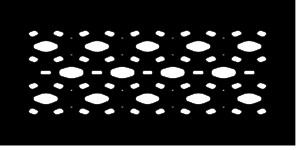
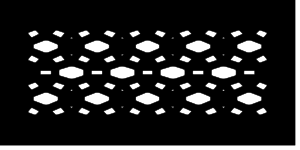
fix image treace

diff --git a/src/bracelet-maker/designs/inner/image-trace.ts b/src/bracelet-maker/designs/inner/image-trace.ts
@@ -6,6 +6,8 @@ import JimpImport from "jimp/es";
 
 const Jimp = configure({ plugins: [threshold] }, JimpImport);
 
+import { CompoundPath } from "paper/dist/paper-core";
+
 import {
   OnOffMetaParameter,
   RangeMetaParameter,
@@ -71,8 +73,6 @@ export class InnerDesignImageTrace extends FastAbstractInnerDesign {
       return { paths: [] };
     }
 
-    console.log({ turnPolicy });
-
     const image = await Jimp.read(buffer);
 
     // Convert the image to black and white
@@ -84,7 +84,6 @@ export class InnerDesignImageTrace extends FastAbstractInnerDesign {
 
     // Get the buffer of the modified image
     const newBuffer = await image.getBufferAsync("image/png");
-    console.log({ newBuffer });
 
     if (typeof window !== "undefined") {
       const imgEl = document.createElement("img");
@@ -101,8 +100,6 @@ export class InnerDesignImageTrace extends FastAbstractInnerDesign {
         turdSize,
       },
     });
-
-    console.log({ tracedSvgString });
 
     const item = paper.project.importSVG(tracedSvgString, {
       expandShapes: true,
@@ -162,12 +159,19 @@ export class InnerDesignImageTrace extends FastAbstractInnerDesign {
     paths.forEach((path) => {
       path.closePath();
 
-      if (smooth) {
-        path.smooth({ type: "continuous" });
+      console.log(path.hasChildren());
+      if (path instanceof CompoundPath) {
+        console.log("this one is a path!");
       }
 
       if (simplificationTolerance > 0) {
-        path.simplify(simplificationTolerance / 50000);
+        path.flatten(simplificationTolerance / 500);
+      }
+
+      // path.simplify(0.00005);
+
+      if (smooth) {
+        path.smooth({ type: "continuous" });
       }
     });
 
@@ -189,7 +193,7 @@ export class InnerDesignImageTrace extends FastAbstractInnerDesign {
       }),
       new SelectMetaParameter({
         title: "Object Fit",
-        value: "fit",
+        value: "cover",
         options: ["contain", "cover", "fill"],
         name: "objectFit",
       }),
@@ -250,7 +254,7 @@ export class InnerDesignImageTrace extends FastAbstractInnerDesign {
         title: "Simplification Tolerance",
         min: 0,
         max: 1000,
-        value: 0.0,
+        value: 10,
         step: 1,
         name: "simplificationTolerance",
       }),

diff --git a/src/bracelet-maker/designs/inner/fast-abstract-inner-design.ts b/src/bracelet-maker/designs/inner/fast-abstract-inner-design.ts
@@ -435,10 +435,9 @@ export abstract class FastAbstractInnerDesign implements PaperModelMaker {
 
     const shouldMakeOutline =
       safeBoundaryModel.bounds.height > params.outerModel.bounds.height;
-    console.log({ shouldMakeOutline });
 
     if ((this.needSubtraction || kaleidoscopeMaker) && !shouldMakeOutline) {
-      console.log("clamping to boundary");
+      console.log("clamping to boundary and cone");
 
       paths = this.clampPathsToBoundary(paths, params.safeCone);
       paths = this.clampPathsToBoundary(paths, safeBoundaryModel);
@@ -456,7 +455,6 @@ export abstract class FastAbstractInnerDesign implements PaperModelMaker {
     );
     paths = maybeOutline.paths;
     const outline = maybeOutline.outline;
-    console.log({ outline });
     if (outline) {
       addToDebugLayer(paper, "finalOutline", outline);
     }

diff --git a/src/components/App/App.tsx b/src/components/App/App.tsx
@@ -91,7 +91,6 @@ const Renderer = ({ modelMaker }: { modelMaker: OuterPaperModelMaker }) => {
         .split("&")
         .filter((param) => param.length > 0)
         .forEach((param) => {
-          console.log("param", param);
           const [key, value] = param.split("=");
           const [model, name] = decodeURIComponent(key).split(".");
           params[model][name] = getParsedValue(
@@ -99,14 +98,7 @@ const Renderer = ({ modelMaker }: { modelMaker: OuterPaperModelMaker }) => {
             name,
             decodeURIComponent(value)
           );
-          console.log(
-            `setting ${model}.${name} to ${decodeURIComponent(value)} from hash`
-          );
         });
-
-      console.log("initialParams", { params });
-
-      console.log("setting model params", params);
 
       setModelParams(params);
     }

diff --git a/src/bracelet-maker/utils/paperjs-utils.ts b/src/bracelet-maker/utils/paperjs-utils.ts
@@ -281,7 +281,9 @@ export function flattenArrayOfPathItems(
   const ret: paper.Path[] = [];
   paths.forEach((path) => {
     if (path instanceof paper.CompoundPath) {
-      flattenArrayOfPathItems(paper, path.children).forEach((c) => ret.push(c));
+      flattenArrayOfPathItems(paper, path.children).forEach((c) => {
+        ret.push(c);
+      });
     } else if (path instanceof paper.Path) {
       ret.push(path);
     }

diff --git a/src/meta-parameter-builder.ts b/src/meta-parameter-builder.ts
@@ -360,6 +360,8 @@ class RenderedSelectMetaParameter extends RenderedMetaParameter {
   public render() {
     const selectedValue = this.initialValue ?? this.metaParameter.value;
 
+    console.log({ selectedValue });
+
     const { parentDiv, containingDiv } = makeMetaParameterContainer(
       this.metaParameter.title
     );

diff --git a/TODO.md b/TODO.md
@@ -1,17 +1,16 @@
-TRACE
-- why is contain broken at first
-- why are some paths unable to heal?
-- remove unneeded inner holes
-- add a repeat option
-- document some of these
-
-- bring back break the plane
-
 - fix map design
 --> figure out what it needs for yuva's map
 --> get it to default to unrounded? or much less rounded?
 --> why kaleido unhappy middle in map someimte
---> why is this not going to edge http://localhost:8080/BoxOuter/InnerDesignMap#BoxOuter.height%3D3&BoxOuter.topWidth%3D3&BoxOuter.bottomWidth%3D3&BoxOuter.smoothingFactor%3D0&InnerDesignMap.debug%3Dfalse&InnerDesignMap.safeBorderWidth%3D0&InnerDesignMap.center%3D35.0688889%2C-106.58329&InnerDesignMap.scaleX%3D240&InnerDesignMap.xyRatio%3D1&InnerDesignMap.lineWidth%3D0.1&InnerDesignMap.invertLatLng%3Dfalse&InnerDesignMap.centerAt%3Dcenter&InnerDesignMap.kaleido%3Dtrue&InnerDesignMap.segmentBuffer%3D0&InnerDesignMap.segments%3D10&InnerDesignMap.shouldSmooth%3Dtrue&InnerDesignMap.smoothingFactor%3D0.8&InnerDesignMap.breakThePlane%3Dfalse&InnerDesignMap.extendOutward%3D0.25&InnerDesignMap.concavity%3D0.4&InnerDesignMap.lengthThreshold%3D0.25&InnerDesignMap.outlineSize%3D0.15&InnerDesignMap.safeCone%3DPath%20%40152530&InnerDesignMap.outerModel%3DPath%20%40152544&InnerDesignMap.boundaryModel%3DPath%20%40152542&InnerDesignMap.center.0%3D4&InnerDesignMap.center.1%3D0&InnerDesignMap.center.2%3D.&InnerDesignMap.center.3%3D7&InnerDesignMap.center.4%3D4&InnerDesignMap.center.5%3D%2C&InnerDesignMap.center.6%3D-&InnerDesignMap.center.7%3D7&InnerDesignMap.center.8%3D4
+
+TRACE
+- why are some paths unable to heal?
+- add a repeat option
+- document some of these
+- remove unneeded inner holes
+
+
+- bring back break the plane
 
 - make a more geometric-intersecting shape design like https://www.pinterest.com/pin/658440408009961386/
 
@@ -35,6 +34,8 @@ TRACE
 - spelunk and document and uncouple how params are passed around
 
 - do crazy typesafe stuff
+
+- so an overall problem with the code coupling is how boundaryModel sometimes means the area to draw in and sometimes means the outer bounds
 
 - would so love to have some designs that do more curving
 - would so love to have some designs that do more organic stuff

diff --git a/README.md b/README.md
@@ -30,11 +30,7 @@
 ![public/demo-output/InnerDesignMap.png](public/demo-output/InnerDesignMap.png)
 ## InnerDesignSunflower
 ![public/demo-output/InnerDesignSunflower.png](public/demo-output/InnerDesignSunflower.png)
-## InnerDesignPerlinBlobs
-![public/demo-output/InnerDesignPerlinBlobs.png](public/demo-output/InnerDesignPerlinBlobs.png)
 ## InnerDesignLattice
 ![public/demo-output/InnerDesignLattice.png](public/demo-output/InnerDesignLattice.png)
-## InnerDesignCirclesXVera
-![public/demo-output/InnerDesignCirclesXVera.png](public/demo-output/InnerDesignCirclesXVera.png)
 ## InnerDesignCirclePacking
 ![public/demo-output/InnerDesignCirclePacking.png](public/demo-output/InnerDesignCirclePacking.png)
